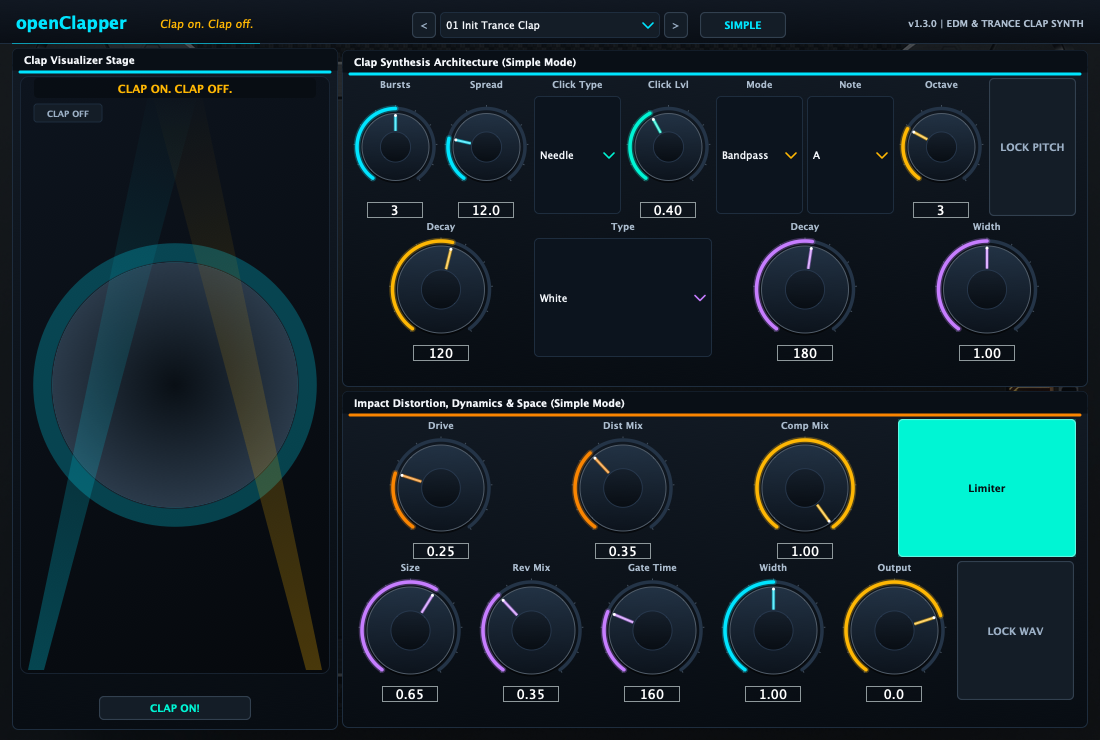
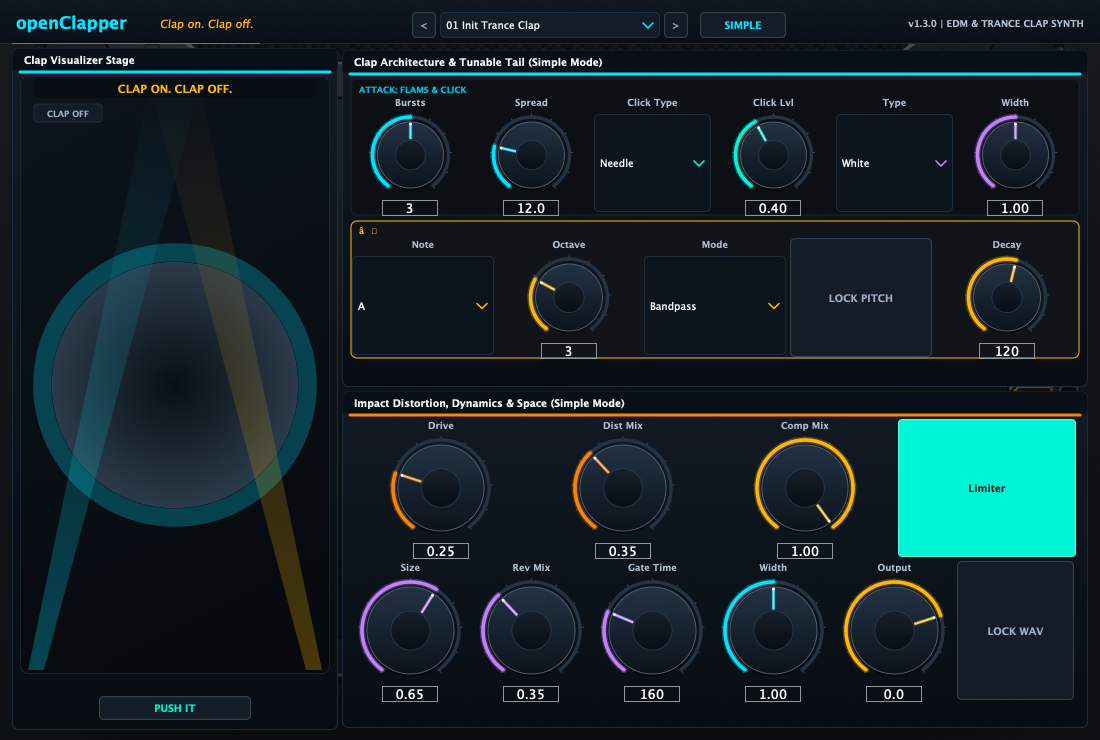
v1.4.0: Add 'Push It' audition button, emphasize Tunable Tail engine section, and update screenshot

Changed region(s): [[0.3091, 0.0622, 0.9891, 0.4973], [0.5873, 0.4041, 0.6491, 0.4351], [0.1236, 0.9324, 0.1855, 0.9635]]

diff --git a/Source/Plugin/Panels.cpp b/Source/Plugin/Panels.cpp
@@ -325,6 +325,7 @@ void ClapSynthPanel::setAdvancedMode(bool advanced) {
     toneQ_.setVisible(advanced);
     tonePitchEnv_.setVisible(advanced);
     toneLevel_.setVisible(advanced);
+    noiseDecay_.setVisible(advanced);
     noiseHPF_.setVisible(advanced);
     noiseLPF_.setVisible(advanced);
     noiseLevel_.setVisible(advanced);
@@ -335,37 +336,71 @@ void ClapSynthPanel::setAdvancedMode(bool advanced) {
 
 void ClapSynthPanel::paint(juce::Graphics& g) {
     const juce::String title = advancedMode_
-        ? "Clap Synthesis Architecture (Advanced View)"
-        : "Clap Synthesis Architecture (Simple Mode)";
+        ? "Clap Architecture & Tunable Tail (Advanced View)"
+        : "Clap Architecture & Tunable Tail (Simple Mode)";
     drawPanel(g, getLocalBounds(), title, theme::kAccentCyan);
+
+    // Emphasized Tunable Tail Section
+    if (!tailSectionBounds_.isEmpty()) {
+        const auto tailRect = tailSectionBounds_.toFloat().reduced(1.0f);
+        drawGlow(g, tailRect, theme::kAccentAmber.withAlpha(0.12f));
+        g.setColour(theme::kBackground.brighter(0.04f));
+        g.fillRoundedRectangle(tailRect, 6.0f);
+        g.setColour(theme::kAccentAmber.withAlpha(0.85f));
+        g.drawRoundedRectangle(tailRect, 6.0f, 1.2f);
+
+        const auto badge = juce::Rectangle<float>(tailRect.getX() + 8.0f, tailRect.getY() + 3.0f, 240.0f, 14.0f);
+        g.setFont(juce::FontOptions(10.0f, juce::Font::bold));
+        g.setColour(theme::kAccentAmber);
+        g.drawText("★ TUNABLE TAIL & HARMONIC BODY", badge, juce::Justification::centredLeft);
+    }
+
+    if (!attackSectionBounds_.isEmpty()) {
+        const auto attackRect = attackSectionBounds_.toFloat().reduced(1.0f);
+        g.setColour(theme::kBackground.brighter(0.02f));
+        g.fillRoundedRectangle(attackRect, 5.0f);
+        g.setColour(theme::kPanelEdge.withAlpha(0.7f));
+        g.drawRoundedRectangle(attackRect, 5.0f, 1.0f);
+
+        const auto badge = juce::Rectangle<float>(attackRect.getX() + 8.0f, attackRect.getY() + 3.0f, 180.0f, 14.0f);
+        g.setFont(juce::FontOptions(10.0f, juce::Font::bold));
+        g.setColour(theme::kAccentCyan.withAlpha(0.85f));
+        g.drawText("ATTACK: FLAMS & CLICK", badge, juce::Justification::centredLeft);
+    }
 }
 
 void ClapSynthPanel::resized() {
     auto area = getLocalBounds().reduced(8, 26);
 
     if (!advancedMode_) {
-        // Simple Mode: 2 clean, spacious rows of core musical controls
         const int rowHeight = area.getHeight() / 2;
-        auto row1 = area.removeFromTop(rowHeight);
-        layoutRow(row1, { &preBursts_, &preSpread_, &clickType_, &clickLevel_, &toneMode_, &toneNote_, &toneOctave_, &lockPitchBtn_ });
-        layoutRow(area, { &toneDecay_, &noiseType_, &noiseDecay_, &noiseWidth_ });
+        attackSectionBounds_ = area.removeFromTop(rowHeight).reduced(0, 2);
+        auto row1Controls = attackSectionBounds_.withTrimmedTop(16);
+        layoutRow(row1Controls, { &preBursts_, &preSpread_, &clickType_, &clickLevel_, &noiseType_, &noiseWidth_ });
+
+        tailSectionBounds_ = area.reduced(0, 2);
+        auto row2Controls = tailSectionBounds_.withTrimmedTop(16);
+        layoutRow(row2Controls, { &toneNote_, &toneOctave_, &toneMode_, &lockPitchBtn_, &toneDecay_ });
         return;
     }
 
     const int rowHeight = area.getHeight() / 3;
 
-    // Row 1: Pre-Clap Flam (left ~58%) & Click (right ~42%)
-    auto row1 = area.removeFromTop(rowHeight);
+    // Row 1: Attack: Pre-Clap Flam (left ~58%) & Click (right ~42%)
+    attackSectionBounds_ = area.removeFromTop(rowHeight).reduced(0, 2);
+    auto row1 = attackSectionBounds_.withTrimmedTop(16);
     auto flamArea = row1.removeFromLeft(static_cast<int>(static_cast<float>(row1.getWidth()) * 0.58f));
     layoutRow(flamArea, { &preBursts_, &preSpread_, &flamSpread_, &preLevel_ });
     layoutRow(row1, { &clickType_, &clickLevel_, &clickFreq_ });
 
-    // Row 2: Resonant Body / Tone (Mode, Note, Octave, Fine, Lock Pitch, Q, Decay, Pitch Drop, Level)
-    auto row2 = area.removeFromTop(rowHeight);
-    layoutRow(row2, { &toneMode_, &toneNote_, &toneOctave_, &toneFine_, &lockPitchBtn_, &toneQ_, &toneDecay_, &tonePitchEnv_, &toneLevel_ });
+    // Row 2: TUNABLE TAIL (Note, Octave, Fine, Mode, Lock Pitch, Q, Decay, Pitch Drop, Level)
+    tailSectionBounds_ = area.removeFromTop(rowHeight).reduced(0, 2);
+    auto row2 = tailSectionBounds_.withTrimmedTop(16);
+    layoutRow(row2, { &toneNote_, &toneOctave_, &toneFine_, &toneMode_, &lockPitchBtn_, &toneQ_, &toneDecay_, &tonePitchEnv_, &toneLevel_ });
 
     // Row 3: Noise & Sizzle (Type, Decay, HPF, LPF, Width, Level)
-    layoutRow(area, { &noiseType_, &noiseDecay_, &noiseHPF_, &noiseLPF_, &noiseWidth_, &noiseLevel_ });
+    noiseSectionBounds_ = area.reduced(0, 2);
+    layoutRow(noiseSectionBounds_, { &noiseType_, &noiseDecay_, &noiseHPF_, &noiseLPF_, &noiseWidth_, &noiseLevel_ });
 }
 
 // ============================================================================

diff --git a/Source/Plugin/Panels.h b/Source/Plugin/Panels.h
@@ -20,7 +20,7 @@ private:
     void timerCallback() override;
 
     OpenClapperProcessor& processor_;
-    juce::TextButton auditionBtn_{ "CLAP ON!" };
+    juce::TextButton auditionBtn_{ "PUSH IT" };
     uint32_t seenTriggers_ = 0;
     double clapTriggerTimeMs_ = 0.0;
     float clapPose_ = 0.0f; // -1 (open flam) .. 0 (slap) .. +1 (recoil)
@@ -71,6 +71,10 @@ private:
     Choice clickType_;
     Knob clickLevel_;
     Knob clickFreq_;
+
+    juce::Rectangle<int> attackSectionBounds_;
+    juce::Rectangle<int> tailSectionBounds_;
+    juce::Rectangle<int> noiseSectionBounds_;
 };
 
 class EffectsPanel : public juce::Component {
